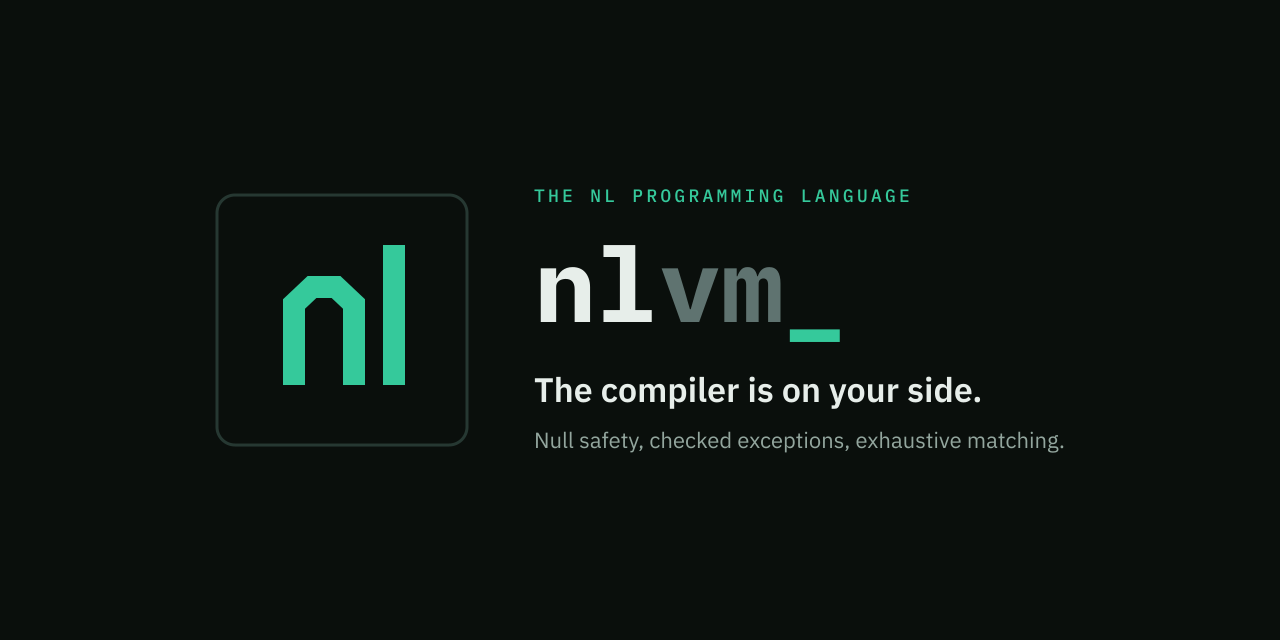
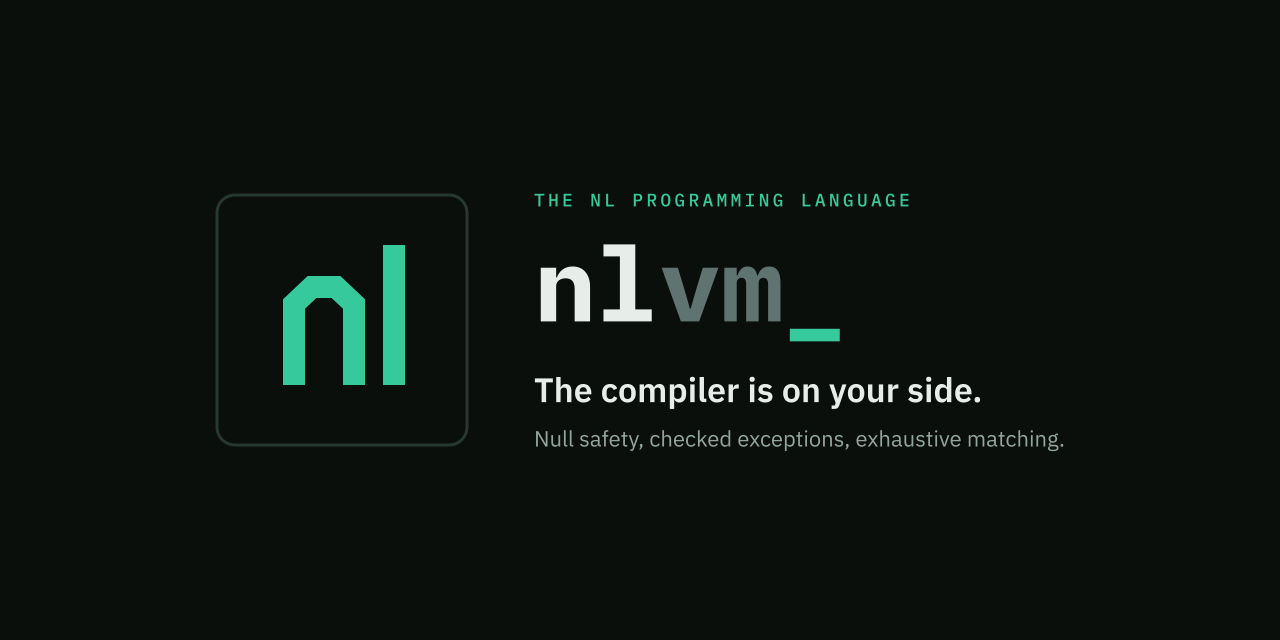
Update brand assets and documentation versions
- Update social preview images and SVG
- Bump version numbers to 0.23.0 in documentation
- Update namespace in tour example

diff --git a/docs/tour.html b/docs/tour.html
@@ -303,7 +303,7 @@ handler.openFile("data.txt"); // Warning W001 — return value is discarded</cod
   <div class="example reveal">
     <h3><span class="num">14</span>A real program: the release script</h3>
     <p class="desc">This is not a toy — it's <a href="https://github.com/nlvm-lang/nlvm/blob/main/tools/Release.nl"><code>tools/Release.nl</code></a>, the script that actually tags and pushes every nlvm release. Files, regular expressions and subprocesses from the standard library, checked IO errors, null-checked regex results.</p>
-    <pre class="nl"><code>namespace tools;
+    <pre class="nl"><code>namespace nlvm.tools;
 
 class Release 
 {

diff --git a/docs/index.html b/docs/index.html
@@ -146,7 +146,7 @@ Hello, world!</code></pre>
         <h3><span class="dot">◆</span>Specified and tested</h3>
         <p>The language is defined by a versioned, public specification — <a href="https://github.com/nlvm-lang/nlvm-specs">nlvm-specs</a> — and the implementation tracks it release by release, backed by a YAML conformance suite run in CI.</p>
         <pre class="sh"><code>$ nlvm --version
-nlvm 0.22.1 (nlvm-specs 0.8.48)
+nlvm 0.23.0 (nlvm-specs 0.8.48)
 $ nltest tests/
 232 passed, 0 failed, 232 total</code></pre>
       </div>

diff --git a/docs/getting-started.html b/docs/getting-started.html
@@ -95,9 +95,9 @@ Hello, world!</code></pre>
 
   <h3>Check your setup</h3>
   <pre class="sh"><code>$ nlc --version
-nlc 0.22.1 (nlvm-specs 0.8.48)
+nlc 0.23.0 (nlvm-specs 0.8.48)
 $ nlvm --version
-nlvm 0.22.1 (nlvm-specs 0.8.48)</code></pre>
+nlvm 0.23.0 (nlvm-specs 0.8.48)</code></pre>
   <p>Both report the crate version and the release of the <a href="https://github.com/nlvm-lang/nlvm-specs">language specification</a> this build implements.</p>
 
   <h3>Run the test suite</h3>

diff --git a/docs/assets/site.js b/docs/assets/site.js
@@ -231,7 +231,7 @@
       steps: [
         { note: "# one toolchain, one versioned spec" },
         { cmd: "nlc --version" },
-        { out: [["out", "nlc 0.22.1 (nlvm-specs 0.8.48)"]] },
+        { out: [["out", "nlc 0.23.0 (nlvm-specs 0.8.48)"]] },
         { cmd: "nltest tests/" },
         { out: [["ok", "232 passed, 0 failed, 232 total"]] }
       ]
